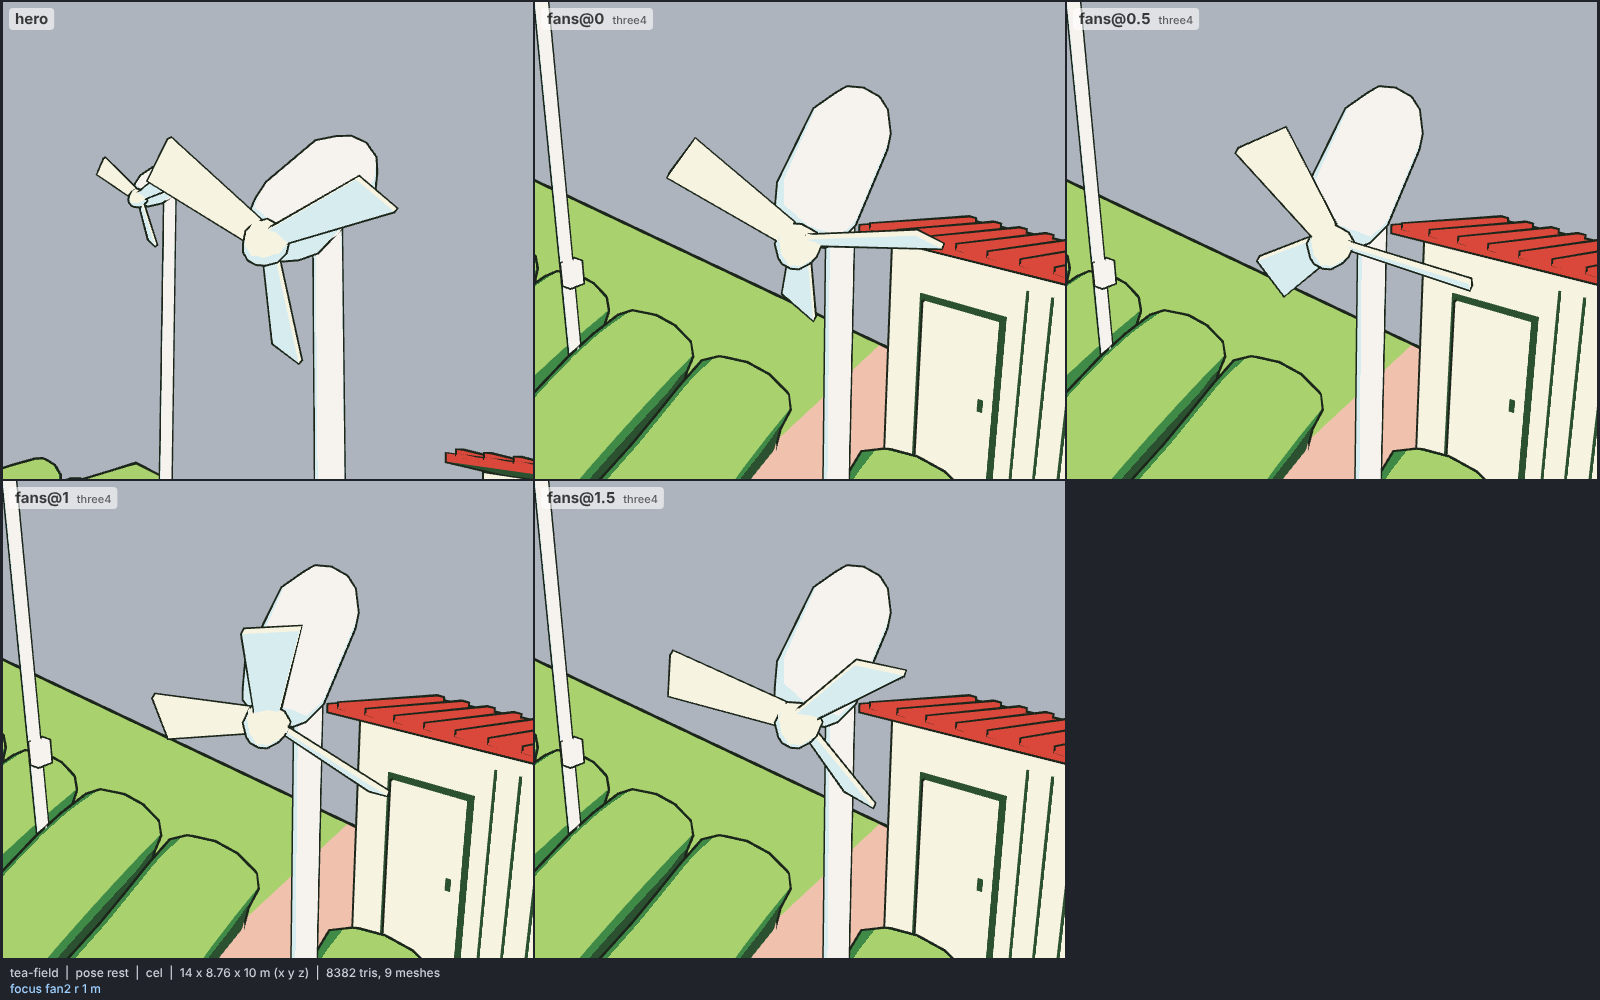
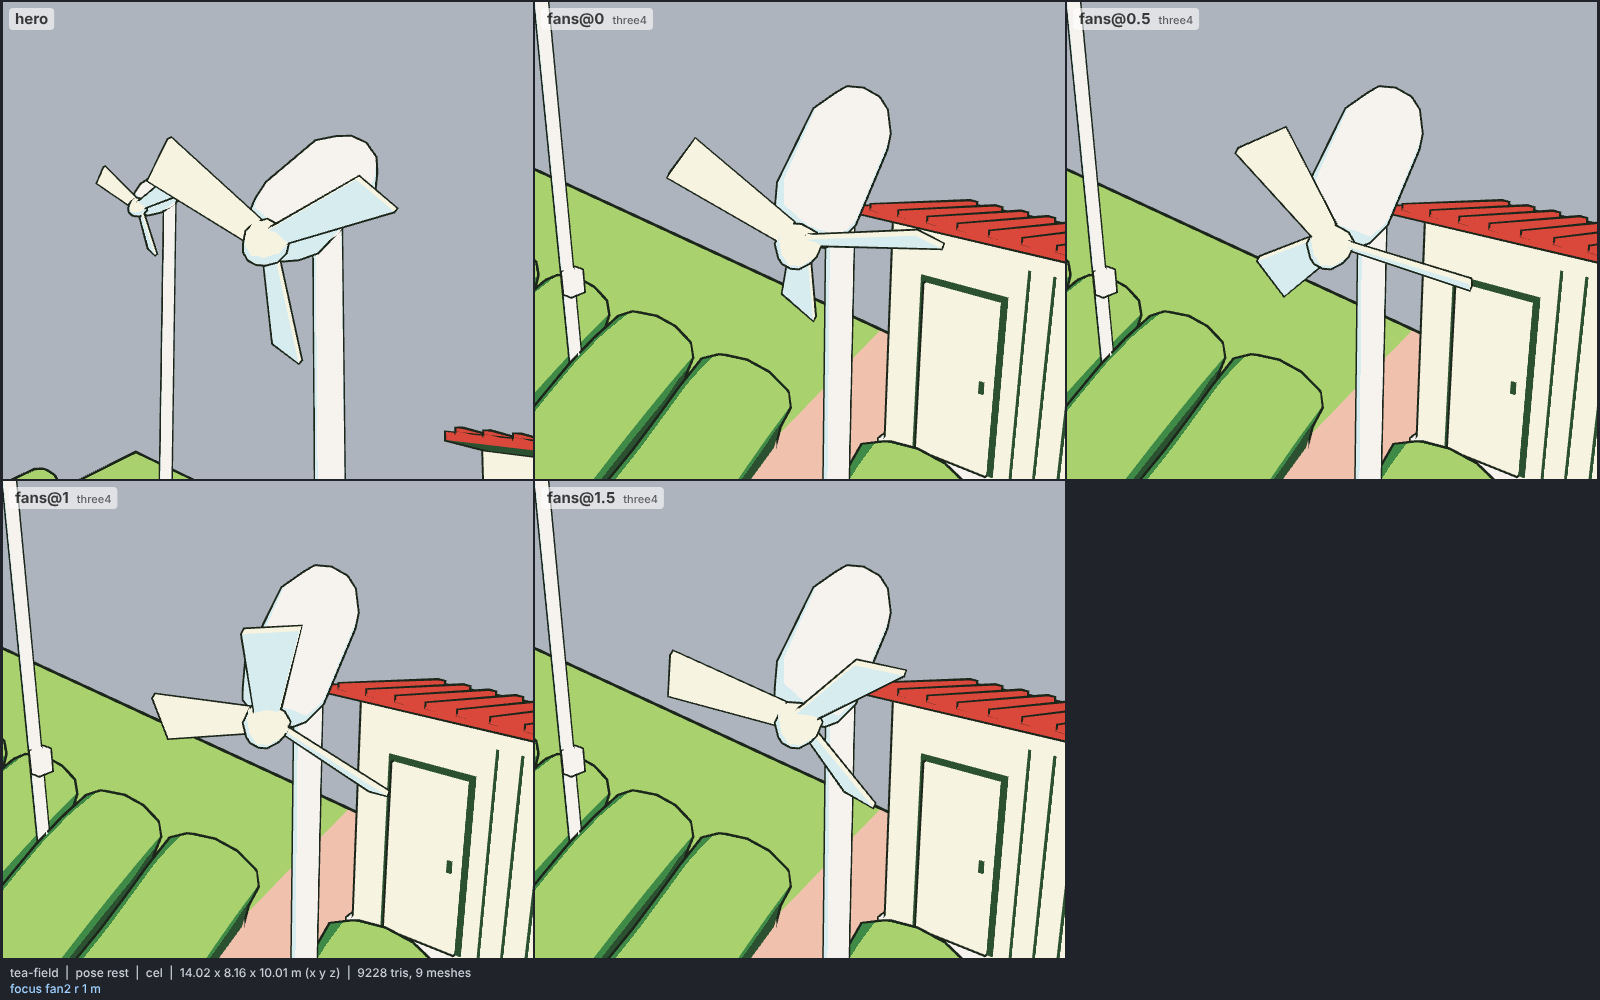
models: tea-field, front edge at ground level, dressed wedge sides
The tile's front edge now sits 5 cm above y = 0 and the slope rises from
there, so the sides are wedges; they carry a grass skirt and a course of
terrace stones over the bare bank. Rows, fans and props unchanged; 9.2k
triangles, 9 meshes.

Claude-Session: https://claude.ai/code/session_01RarBCdt4E1fNHHaUKaW5GL

diff --git a/models/tea-field.js b/models/tea-field.js
@@ -3,10 +3,12 @@
 // stands on y = 0, centred on x = 0, z = 0 (the bbox of the tile, 14 x 10 m).
 //
 // Construction (closed solids merged per material; smooth where it is a form, split normals on boxes; 9 meshes):
-//   TILE    one closed solid: a 0.5 m grid top over g(x, z) (rises 2.2 m toward -Z and 1.8 m toward -X, so the
-//           hillside turns its face to the low front-right hero camera and the rows stack up the frame), vertical
-//           sides to y = 0 and a bottom. Material groups by triangle centroid: tilled soil under the rows and on
-//           the path, grass on the margins, the back headland and a 0.14 m lip down the sides, an earth bank below.
+//   TILE    one closed solid: a 0.5 m grid top over g(x, z), 5 cm above y = 0 along the whole front edge and rising
+//           from there (2.2 m toward -Z, plus up to 1.8 m toward -X at the back), so the hillside turns its face to
+//           the low front-right hero camera and the rows stack up the frame; the sides are wedges tapering to the
+//           front lip, then a bottom. Material groups by triangle centroid: tilled soil under the rows and on the
+//           path, grass on the margins and the back headland; down the sides a 0.3 m grass skirt, a 0.26 m course
+//           of terrace stones (dark joints every 0.5 m), bare bank below; every band clamped at y = 0.
 //   ROWS    ONE mesh, `rows` hedges (6..14, default 9) running up the slope in gentle parallel S-curves (rings
 //           locked to the Z plane, lofted along z and lifted onto the ground at each station). The section is the
 //           clipped kamaboko: narrow stems at the soil, bulging sides, a flat arch on top. Rounded ends (two
@@ -20,25 +22,26 @@
 //   PROPS   at the top of the path, a small board shed (lean-to, red corrugated roof, a door, a concrete footing
 //           under its downhill side); parked across the foot of the path, a two-wheeled handcart tilted to the
 //           slope with two bamboo tea baskets heaped with leaf; beside it a sun hat with a red band on a stake.
-// Proportions (real size; base unit the row pitch P = 1.4 m at 9 rows): tile 14 x 10 m, ground 0.35 m at the
-// front-right corner to 4.4 m at the back-left; rows 0.85 m tall, 0.88 P wide (1.23 m), path 0.9 m; poles 5.2 m,
+// Proportions (real size; base unit the row pitch P = 1.4 m at 9 rows): tile 14 x 10 m, ground 0.05 m along the
+// front edge to 4.1 m at the back-left; rows 0.85 m tall, 0.88 P wide (1.23 m), path 0.9 m; poles 5.2 m,
 // blade disc 1.2 m; shed 2.2 x 1.5 x 2.3 m; cart bed 1.1 x 0.65 m on 0.56 m wheels; hat brim 0.6 m on a 1.2 m stake.
 // Options: build(THREE, kit, colors, { height, rows }).
 //   rows    number of hedge rows, 6..14 (default 9); width and pitch follow, the tile stays 14 x 10 m, the fans
 //           stand in the furrows nearest their marks.
-//   height  scales the whole tile uniformly so its top (the highest fan) is `height` (default: real size, 8.76 m at 9 rows).
+//   height  scales the whole tile uniformly so its top (the highest fan) is `height` (default: real size, 8.16 m at 9 rows).
 // Clips: fans 2 s (every blade disc turns once per loop, each fan at its own phase); pose("fans@0.5").
-// Budget: 8.4k triangles at 9 rows (rows 4.0k, tile 1.5k), 7.1k at 6, 9.7k at 14.
+// Budget: 9.2k triangles at 9 rows (rows 4.0k, tile 1.6k, dark incl. stone joints 1.2k), 7.9k at 6, 10.5k at 14.
 // Colours (meadow: the only script with field greens and a pale sky):
 //   rows side iris #3f8a47 / hair #2c5131, new-leaf top line #a9d16e / iris #3f8a47 (the lighter layer);
 //   soil and path skin #f0c2ae flat (meadow has no brown: the warm pale earth between dark rows), grass line /
-//   iris, bank skin / accent #d9483b (Shizuoka red clay, on the far faces only); metal (poles, pods, footing) sclera #f6f3ee /
+//   iris, bank skin / accent #d9483b (Shizuoka red clay, on the far faces only); terrace stones moon /
+//   sky; metal (poles, pods, footing) sclera #f6f3ee /
 //   sky #d7ecef; blades moon #f7f3e1 / sky; wood moon / skin (weathered grey-cream boards); roof accent / hair;
 //   straw (baskets, hat) practical #f2c94c / line; leaf heaps line / iris; dark (seams, door gap, tyres) hair flat.
 
 export const meta = {
   name: "tea-field",
-  height: 8.759,
+  height: 8.157,
   script: "meadow",
   colors: {
     row: "#3f8a47", rowShade: "#2c5131",
@@ -46,6 +49,7 @@ export const meta = {
     soil: "#f0c2ae",
     grass: "#a9d16e", grassShade: "#3f8a47",
     bank: "#f0c2ae", bankShade: "#d9483b",
+    stone: "#f7f3e1", stoneShade: "#d7ecef",
     metal: "#f6f3ee", metalShade: "#d7ecef",
     blade: "#f7f3e1", bladeShade: "#d7ecef",
     wood: "#f7f3e1", woodShade: "#f0c2ae",
@@ -75,7 +79,7 @@ export function build(THREE, kit, colors = meta.colors, opts = {}) {
   const M = (x, y, z, ry = 0, rx = 0, rz = 0) => new THREE.Matrix4().compose(new THREE.Vector3(x, y, z), new THREE.Quaternion().setFromEuler(new THREE.Euler(rx, ry, rz, "YXZ")), new THREE.Vector3(1, 1, 1));
   // a closed solid: pts [[x,y,z]], idx triangle triples, grp a group per triangle (or one number); wound from its volume
   function solid(key, pts, idx, grp = 0, owner = -1) {
-    const a = (acc[key] ??= { p: [], g: [[], [], []], o: [] });
+    const a = (acc[key] ??= { p: [], g: [[], [], [], []], o: [] });
     const P = pts.map((p) => v3.set(p[0], p[1], p[2]).applyMatrix4(X).toArray());
     let vol = 0;
     for (let i = 0; i < idx.length; i += 3) {
@@ -125,7 +129,7 @@ export function build(THREE, kit, colors = meta.colors, opts = {}) {
 
   // ---------- the ground ----------
   const W = 14, DP = 10, HX = W / 2, HZ = DP / 2;
-  const g = (x, z) => 0.35 + 0.22 * (HZ - z) + 0.13 * (HX - x) + 0.15 * Math.sin((Math.PI * (HZ - z)) / DP);
+  const g = (x, z) => 0.05 + 0.22 * (HZ - z) + 0.13 * (HX - x) * ((HZ - z) / DP) + 0.15 * Math.sin((Math.PI * (HZ - z)) / DP);
   // rows region and the path's S-curve
   const RX = 6.5, ZF = 3.65, ZB = -3.0; // rows fill |x| < RX, z in (ZB, ZF); grass beyond
   const PATH = 0.9;
@@ -153,8 +157,9 @@ export function build(THREE, kit, colors = meta.colors, opts = {}) {
       idx.push(a, d, b, b, d, e);
       grp.push(soil ? 0 : 2, soil ? 0 : 2);
     }
-    // sides: split vertices (flat bank under a grass lip), then the bottom
-    const LIP = 0.14;
+    // sides (wedges from a 5 cm lip at the front): split vertices, a grass skirt, a course of terrace stones with
+    // dark joints every 0.5 m, then bare bank, each band clamped at y = 0; then the bottom
+    const BANDS = [[0, 0.3, 2], [0.3, 0.56, 3], [0.56, Infinity, 1]];
     const ring = [];
     for (let i = 0; i <= NX; i++) ring.push([-HX + (i * W) / NX, HZ]);
     for (let j = NZ - 1; j >= 0; j--) ring.push([HX, -HZ + (j * DP) / NZ]);
@@ -164,12 +169,18 @@ export function build(THREE, kit, colors = meta.colors, opts = {}) {
       const [x0, z0] = ring[k], [x1, z1] = ring[k + 1];
       if (x0 === x1 && z0 === z1) continue;
       const [t0, t1] = [g(x0, z0), g(x1, z1)];
-      for (const [ya0, ya1, yb0, yb1, gr] of [[t0, t1, t0 - LIP, t1 - LIP, 2], [t0 - LIP, t1 - LIP, 0, 0, 1]]) {
+      for (const [d0, d1, gr] of BANDS) {
+        const [ya0, ya1, yb0, yb1] = [t0 - d0, t1 - d0, t0 - d1, t1 - d1].map((y) => Math.max(0, y));
+        if (ya0 <= 0 && ya1 <= 0) continue;
         const b = pts.length;
         pts.push([x0, ya0, z0], [x1, ya1, z1], [x1, yb1, z1], [x0, yb0, z0]);
         idx.push(b, b + 2, b + 1, b, b + 3, b + 2);
         grp.push(gr, gr);
       }
+      const [mx, mz, mt] = [(x0 + x1) / 2, (z0 + z1) / 2, (t0 + t1) / 2];
+      const [ox, oz] = Math.abs(mx) > HX - 1e-6 ? [Math.sign(mx), 0] : [0, Math.sign(mz)];
+      const jy0 = Math.max(0, mt - 0.56), jy1 = Math.max(0, mt - 0.3);
+      if (jy1 - jy0 > 0.08) box("dark", mx + ox * 0.006, (jy0 + jy1) / 2, mz + oz * 0.006, ox ? 0.012 : 0.03, jy1 - jy0, oz ? 0.012 : 0.03);
     }
     const b = pts.length;
     pts.push([-HX, 0, -HZ], [HX, 0, -HZ], [HX, 0, HZ], [-HX, 0, HZ]);
@@ -328,7 +339,7 @@ export function build(THREE, kit, colors = meta.colors, opts = {}) {
   // sun hat on a stake at the foot of the path
   {
     const z = 4.62, x = pz(z) + 1.3, y = g(x, z);
-    rod("wood", [x, y - 0.2, z], [x, y + 1.2, z], 0.03, 6);
+    rod("wood", [x, y - 0.1, z], [x, y + 1.2, z], 0.03, 6);
     local(M(x, y + 1.2, z, 30 * D, 0.12, -0.18), () => {
       lathe("straw", [[0, 0], [0.3, -0.01], [0.31, 0.0], [0.3, 0.02], [0.13, 0.03], [0.13, 0.12], [0.11, 0.17], [0, 0.18]], 16);
       lathe("roof", [[0, 0.03], [0.137, 0.03], [0.137, 0.075], [0, 0.075]], 16);
@@ -337,7 +348,7 @@ export function build(THREE, kit, colors = meta.colors, opts = {}) {
 
   // ---------- meshes ----------
   const MAT = { // key: [[base, shade, threshold] per group], ink px (0 = none)
-    ground: [[[c.soil, c.soil, -1], [c.bank, c.bankShade, 0.25], [c.grass, c.grassShade, 0.3]], 3],
+    ground: [[[c.soil, c.soil, -1], [c.bank, c.bankShade, 0.25], [c.grass, c.grassShade, 0.3], [c.stone, c.stoneShade, 0.25]], 3],
     rows: [[[c.row, c.rowShade, 0.25], [c.leaf, c.leafShade, 0.3]], 2.5],
     metal: [[[c.metal, c.metalShade, 0.2]], 2],
     blades: [[[c.blade, c.bladeShade, 0.1]], 2],
